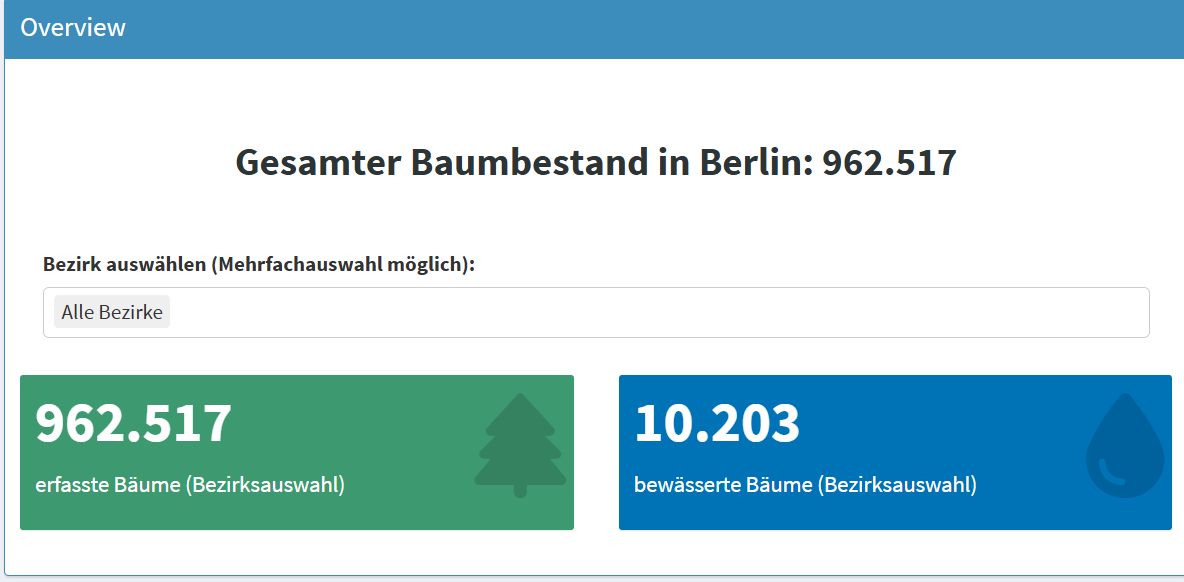
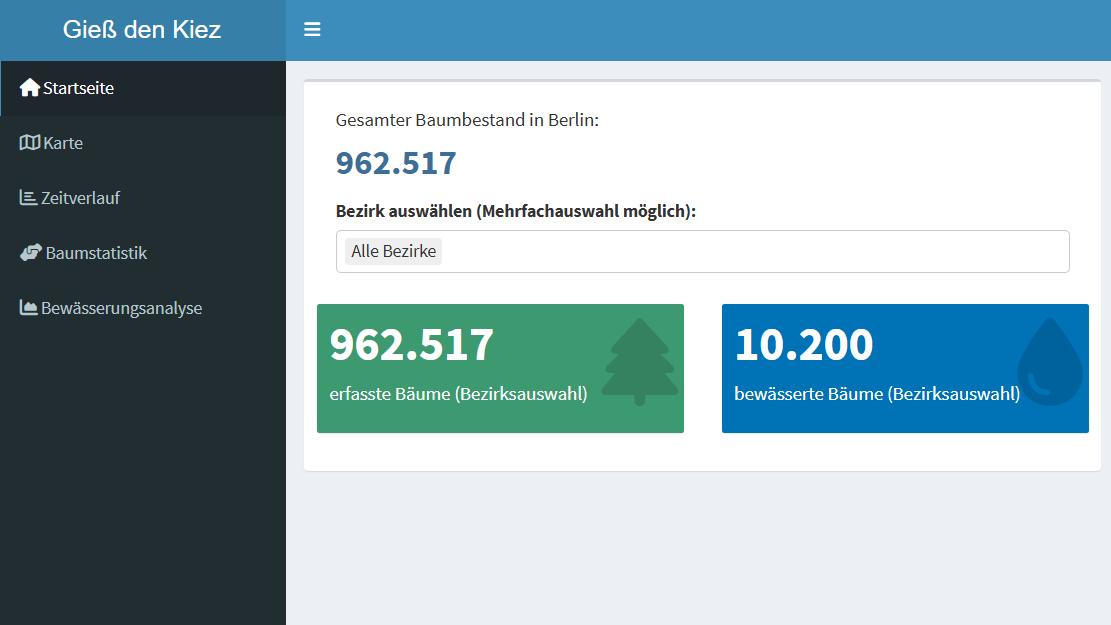
Update: Color Palette; 5.2 image and code explanation

diff --git a/dashboard/Übung_Startseite.md b/dashboard/Übung_Startseite.md
@@ -117,30 +117,33 @@ Auf der Startseite des Dashboards visualisieren Sie die beiden zentralen Kennzah
 tabItems(
       tabItem(
         tabName = "start",
-        box(title = "Overview", status = "primary", solidHeader = TRUE, width = 12,
+        fluidRow(
+          box(width = 12,
+              # Label: Einfacher Text, Zahl hervorgehoben
+              div(style = "padding: 10px 15px 0 15px;",
+                  p(style = "font-size: 15px; margin-bottom: 2px;",
+                    "Gesamter Baumbestand in Berlin:"),
+                  span(style = "font-size: 28px; font-weight: bold; color: #3C6E97; margin-top: 0;",
+                    textOutput("total_trees_label"))
+              ),
+          
+              # Dropdown-Filter in voller Breite darüber
+              fluidRow(
+                column(width = 12,
+                       div(style = "padding: 10px 15px;", 
+                           selectInput("bezirk", "Bezirk auswählen (Mehrfachauswahl möglich):", 
+                                       choices = c("Alle Bezirke", sort(na.omit(unique(df_merged$bezirk)))), 
+                                       selected = "Alle Bezirke", multiple = TRUE)
+                       )
+                )
+              ),
             
-            # Label für die stadtweite Kennzahl (zentriert, groß, fett & tiefer gesetzt)
-            div(style = "text-align: center; margin-top: 40px; margin-bottom: 30px;",
-                span(style = "font-size: 26px; font-weight: bold; color: #2d3436;", 
-                     textOutput("total_trees_label"))
-            ),
-            
-            # Dropdown-Filter in voller Breite darüber
-            fluidRow(
-              column(width = 12,
-                     div(style = "padding: 10px 15px;", 
-                         selectInput("bezirk", "Bezirk auswählen (Mehrfachauswahl möglich):", 
-                                     choices = c("Alle Bezirke", sort(na.omit(unique(df_merged$bezirk)))), 
-                                     selected = "Alle Bezirke", multiple = TRUE)
-                     )
+              # Zwei dynamische Kacheln nebeneinander
+              fluidRow(
+                valueBoxOutput("total_trees_filtered", width = 6),
+                valueBoxOutput("total_tree_watered", width = 6)
               )
-            ),
-            
-            # Zwei reaktive Kacheln nebeneinander
-            fluidRow(
-              valueBoxOutput("total_trees_filtered", width = 6),
-              valueBoxOutput("total_tree_watered", width = 6)
-            )
+          )
         )
       )
     )
@@ -150,13 +153,10 @@ tabItems(
 :class: hinweis, dropdown
 
 **`box(...)`** gruppiert alle Elemente visuell mit:
-- `title = "Overview"` – die Überschrift der Box
-- `status = "primary"` (Farbe)
-- `solidHeader = TRUE` (fester Rand)
 - `width = 12` (volle Breite – 12 ist die maximale Spaltenanzahl im Raster)
 
 **Der Layout-Aufbau (vertikal strukturiert):**
-- **Das Text-Label (`textOutput("total_trees_label")`)**: Mithilfe von `span(...)` und `div(...)` wird die stadtweite Kennzahl mittig, groß und fett als einfacher Textstrang angezeigt.
+- **Das Text-Label (`textOutput("total_trees_label")`)**: Mithilfe von `span(...)` und `p(...)` wird die stadtweite Kennzahl als Text ergänzt durch eine formatierte Zahl hervorgehoben.
 - **Der Filterbereich (`fluidRow` & `selectInput`)**: Das Dropdown-Menü nimmt die volle Breite ein (`column(width = 12)`) und steht direkt über den Kacheln.
 - **Die Kacheln (`fluidRow` & `valueBoxOutput`)**: Die verbleibenden beiden Kacheln teilen sich nun horizontal den Platz. Durch `width = 6` passen genau zwei Stück nebeneinander.
 
@@ -286,14 +286,13 @@ Wird nur „2020–2024“ ausgewählt, zeigt dynamic_tree_box nur gegossene Bä
 
 ### ValueBoxes: Kennzahlen anzeigen
 
-Nun können Sie die beiden Kennzahlenkacheln mit Inhalten füllen. In der UI wurden diese bereits als `valueBoxOutput("total_trees")` und `valueBoxOutput("total_tree_watered")` angelegt – jetzt definiert Sie, was darin erscheinen soll.
+Nun können Sie die Kennzahlen mit Inhalten füllen. In der UI wurden diese bereits als Label `textOutput("total_trees_label")` und zwei Kacheln `valueBoxOutput("total_trees_filtered")` und `valueBoxOutput("total_tree_watered")` angelegt – jetzt definieren Sie, was darin erscheinen soll.
 
 
 ````{dropdown} Alle Bäume
 ```r
 output$total_trees_label <- renderText({
-  anzahl <- formatC(n_distinct(df_merged$gisid), format = "d", big.mark = ".")
-  paste("Gesamter Baumbestand in Berlin:", anzahl, "Bäume")
+  formatC(n_distinct(df_merged$gisid), format = "d", big.mark = ".")
 })
 
 output$total_trees_filtered <- renderValueBox({
@@ -313,7 +312,7 @@ output$total_trees_filtered <- renderValueBox({
 - ``output$total_trees_label`` ist das, was an das simple UI-Element ``textOutput("total_trees_label")`` gesendet wird.
 - ``renderText({...})`` berechnet reinen Text, anstelle einer visuell aufwändigen Kachel.
 - ``n_distinct(...)``: zählt eindeutige Bäume (verhindert doppelte Zählungen).
-- ``paste(...)`` verknüpft unseren Beschriftungstext mit der formatierten Zahl.
+- ``formatC(...)`` formatiert die Nummer ansprechend mit Tausendertrennzeichen.
 ````
 
 ````{dropdown} Gegossene Bäume
@@ -503,23 +502,33 @@ ui <- dashboardPage(
     tabItems(
       tabItem(
         tabName = "start",
-        box(title = "Overview", status = "primary", solidHeader = TRUE, width = 12,
-            fluidRow(
-              
-              column(width = 6,
-                     valueBoxOutput("total_trees", width = 12),
-                     valueBoxOutput("total_trees_filtered", width = 12)
+        fluidRow(
+          box(width = 12,
+              # Label: Einfacher Text, Zahl hervorgehoben
+              div(style = "padding: 10px 15px 0 15px;",
+                  p(style = "font-size: 15px; margin-bottom: 2px;",
+                    "Gesamter Baumbestand in Berlin:"),
+                  span(style = "font-size: 28px; font-weight: bold; color: #3C6E97; margin-top: 0;",
+                    textOutput("total_trees_label"))
               ),
-              
-              column(width = 6,
-                     valueBoxOutput("total_tree_watered", width = 12),
-                     div(style = "padding: 10px 15px;", # Fügt etwas Abstand für den Filter hinzu
-                         selectInput("bezirk", "Bezirk auswählen:", 
-                                     choices = c("Alle Bezirke", sort(na.omit(unique(df_merged$bezirk)))), 
-                                     selected = "Alle Bezirke", multiple = TRUE)
-                      )
+          
+              # Dropdown-Filter in voller Breite darüber
+              fluidRow(
+                column(width = 12,
+                       div(style = "padding: 10px 15px;", 
+                           selectInput("bezirk", "Bezirk auswählen (Mehrfachauswahl möglich):", 
+                                       choices = c("Alle Bezirke", sort(na.omit(unique(df_merged$bezirk)))), 
+                                       selected = "Alle Bezirke", multiple = TRUE)
+                       )
+                )
+              ),
+            
+              # Zwei dynamische Kacheln nebeneinander
+              fluidRow(
+                valueBoxOutput("total_trees_filtered", width = 6),
+                valueBoxOutput("total_tree_watered", width = 6)
               )
-            )
+          )
         )
       )
     )
@@ -551,7 +560,12 @@ server <- function(input, output, session) {
   prev_bezirk <- reactiveVal("Alle Bezirke")
   
   observeEvent(input$bezirk, {
-    req(input$bezirk)
+    if (is.null(input$bezirk)) {
+      updateSelectInput(session, "bezirk", selected = "Alle Bezirke")
+      prev_bezirk("Alle Bezirke")
+      return()
+    }
+    
     curr_bezirk <- input$bezirk
     prev <- prev_bezirk()
     
@@ -565,7 +579,7 @@ server <- function(input, output, session) {
     } else {
       prev_bezirk(curr_bezirk)
     }
-  }, ignoreInit = TRUE)
+  }, ignoreNULL = FALSE, ignoreInit = TRUE)
   
   # ---- Gefilterte Daten ----
   filteredData <- reactive({
@@ -583,21 +597,16 @@ server <- function(input, output, session) {
   
   # ---- ValueBoxes ----
   
-  # Box 1: Gesamtzahl (Immer ganz Berlin)
-  output$total_trees <- renderValueBox({
-    valueBox(
-      formatC(n_distinct(df_merged$gisid), format = "d", big.mark = "."),
-      "Gesamtzahl der Bäume (Berlin)",
-      icon = icon("tree"),
-      color = "green"
-    )
+  # Label 1: Gesamtzahl (Immer ganz Berlin)
+  output$total_trees_label <- renderText({
+    formatC(n_distinct(df_merged$gisid), format = "d", big.mark = ".")
   })
   
   # Box 2: Gefilterte Zahl (Reagiert auf den Filter)
   output$total_trees_filtered <- renderValueBox({
     valueBox(
       formatC(n_distinct(filteredData()$gisid), format = "d", big.mark = "."),
-      "Baumanzahl in ausgewählten Bezirken",
+      "erfasste Bäume (Bezirksauswahl)",
       icon = icon("tree"),
       color = "olive" 
     )
@@ -608,7 +617,7 @@ server <- function(input, output, session) {
     valueBox(
       formatC(n_distinct(filteredData()$gisid[!is.na(filteredData()$timestamp)]), 
               format = "d", big.mark = "."),
-      "Gegossene Bäume (Auswahl)",
+      "bewässerte Bäume (Bezirksauswahl)",
       icon = icon("tint"),
       color = "blue"
     )

diff --git a/4_dash-prep/4.3_preparation.md b/4_dash-prep/4.3_preparation.md
@@ -85,6 +85,36 @@ Erklärung des Codes:
 
 ## Dashboard bauen
 
+**Farbpalette definieren**
+
+Eine globale Farbpalette definiert ein einheitliches Farbschema für alle Grafiken des Dashboards. Dies ermöglicht Konsistenz in der Gestaltung und erleichtert Nutzer:innen die Orientierung. Diese Palette wird in allen Grafiken der folgenden Kapitel konsistent verwendet:
+
+```r
+# GLOBALE FARBPALETTE - Einheitliches Farbschema für alle Grafiken
+GDK_PALETTE_BASE <- c(
+  "#3C6E97", "#6894B5", "#95BBD4", "#C8E0EF",
+  "#3E8395", "#67A7B6", "#98CBD6", "#D0EDF2",
+  "#508B71", "#7AB097", "#A5D2BC", "#D6EFE5",
+  "#4F626E", "#8D9FA9", "#B2C2CC", "#DCE6EB"
+)
+
+GDK_ACCENT <- "#95BBD4"
+
+options(ggplot2.discrete.fill = function() scale_fill_manual(
+  values = colorRampPalette(GDK_PALETTE_BASE)(16)
+))
+```
+
+Erklärung des Codes:
+
+- `GDK_PALETTE_BASE` speichert einen Vektor mit Hexadezimal-Farbcodes. Für dieses Dashboard ist hier eine Farbpalette mit 16 Farben definiert. An dieser Stelle lassen sich problemlos eigene Farben eintragen, um eine ganz individuelle Palette zu erstellen. Alternativ können in R auch Pakete wie `RColorBrewer` oder `viridis` genutzt werden, die bereits vorgefertigte Farbpaletten zur Verfügung stellen.
+
+- `GDK_ACCENT` definiert eine zusätzliche Akzentfarbe für Hervorhebungen.
+
+- `options(ggplot2.discrete.fill = ...)` setzt die Farbpalette als globale Voreinstellung für ggplot2. `colorRampPalette()` interpoliert zwischen den definierten Farben und erzeugt bei Bedarf Zwischentöne.
+
+
+
 **Grundstruktur einer Shiny-Anwendung**
 
 Eine typische Shiny-Anwendung besteht aus zwei Hauptkomponenten:
@@ -156,7 +186,9 @@ shinyApp(ui = ui, server = server)
 
 Die sidebarMenu-Funktion definiert die Navigationselemente, während tabItems die entsprechenden Inhalte für jeden Tab bereitstellt.
 
+
 **Interaktive Elemente und Reaktivität**
 
 Ein wesentliches Merkmal von Shiny ist seine [Reaktivität](https://de.wikipedia.org/wiki/Reaktives_System_(Informatik)), die es ermöglicht, dass sich Ausgaben automatisch aktualisieren, wenn sich Eingaben ändern. Dies wird durch reaktive Funktionen und Objekte erreicht.
+
 
